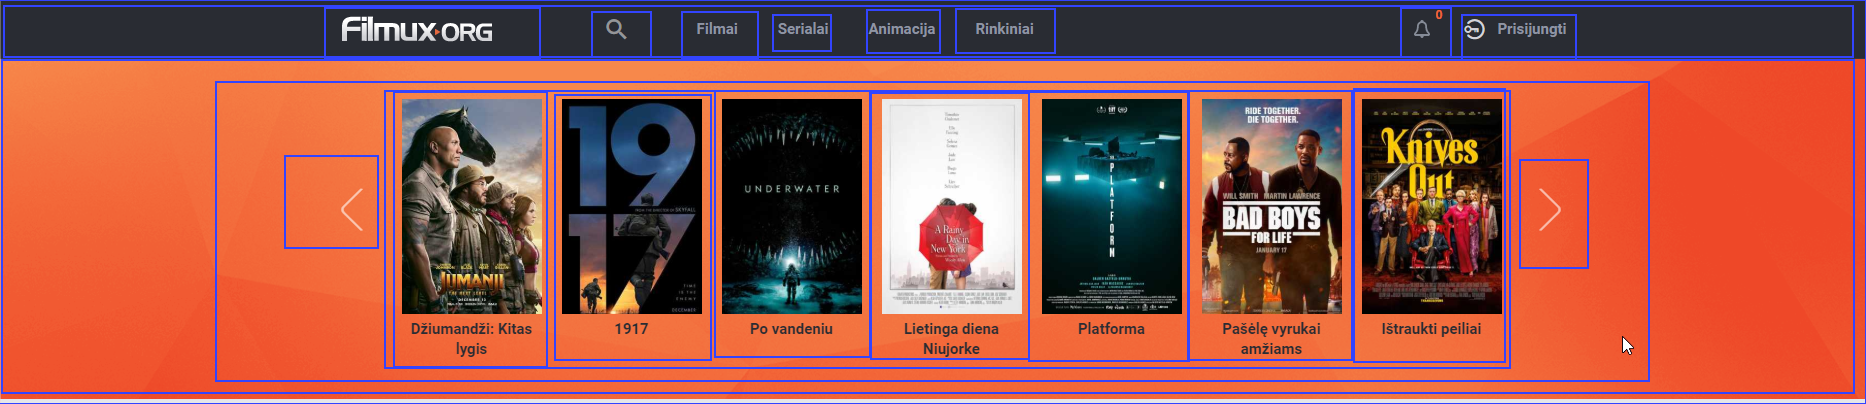
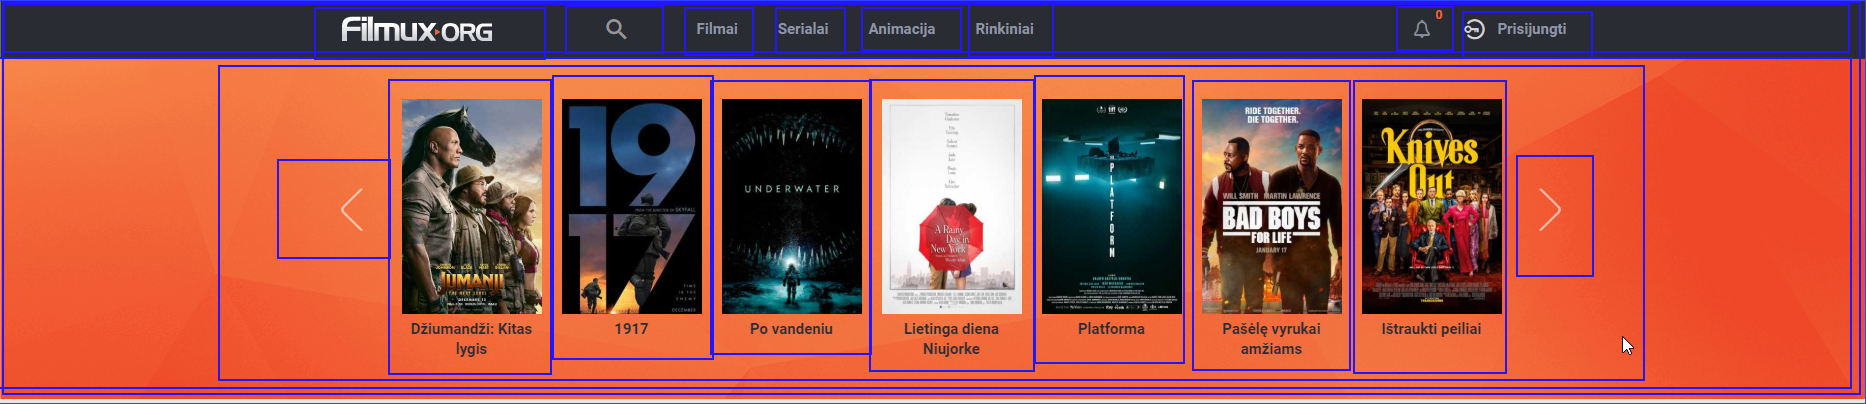
Tagu patvarkymas

Changed region(s): [[0.0, 0.0, 1.0, 0.9802], [0.8081, 0.3564, 0.8703, 0.7129]]

diff --git a/index.html b/index.html
@@ -44,39 +44,37 @@
             <div>
                 <div>
                     <a href="#">Rodiklyte i kaire</a>
+                </div> 
+                <div>
+                    <a href="#">Dziumandzi linkas</a>
+                    <img src="#" alt="linko foto">
+                </div>  
+                <div>
+                    <a href="#">1917 linkas</a>
+                    <img src="#" alt="linko foto">
+                </div>  
+                <div>
+                    <a href="#">Po vandeniu linkas</a>
+                    <img src="#" alt="linko foto">
+                </div>    
+                <div>
+                    <a href="#">Lietinga diena Niujorke linkas</a>
+                    <img src="#" alt="linko foto">
+                </div>  
+                <div>
+                    <a href="#">Platforma linkas</a>
+                    <img src="#" alt="linko foto">
+                </div>  
+                <div>
+                    <a href="#">Pasele vyrukai amziams linkas </a
+                    <img src="#" alt="linko foto">
+                </div>
+                <div>
+                    <a href="#">Istraukti peiliai linkas</a>
+                    <img src="#" alt="linko foto">
                 </div>
                 <div>
                     <a href="#">Rodiklyte i dešine</a>
-                </div>
-                <div>
-                    <div>
-                        <a href="#">Dziumandzi linkas</a>
-                        <img src="#" alt="linko foto">
-                    </div>
-                    <div>
-                        <a href="#">1917 linkas</a>
-                        <img src="#" alt="linko foto">
-                    </div>
-                    <div>
-                        <a href="#">Po vandeniu linkas</a>
-                        <img src="#" alt="linko foto">
-                    </div>
-                    <div>
-                        <a href="#">Lietinga diena Niujorke linkas</a>
-                        <img src="#" alt="linko foto">
-                    </div>
-                    <div>
-                        <a href="#">Platforma linkas</a>
-                        <img src="#" alt="linko foto">
-                    </div>
-                    <div>
-                        <a href="#">Pasele vyrukai amziams linkas </a>
-                        <img src="#" alt="linko foto">
-                    </div>
-                    <div>
-                        <a href="#">Istraukti peiliai linkas</a>
-                        <img src="#" alt="linko foto">
-                    </div>
                 </div>
             </div>
         </div>
